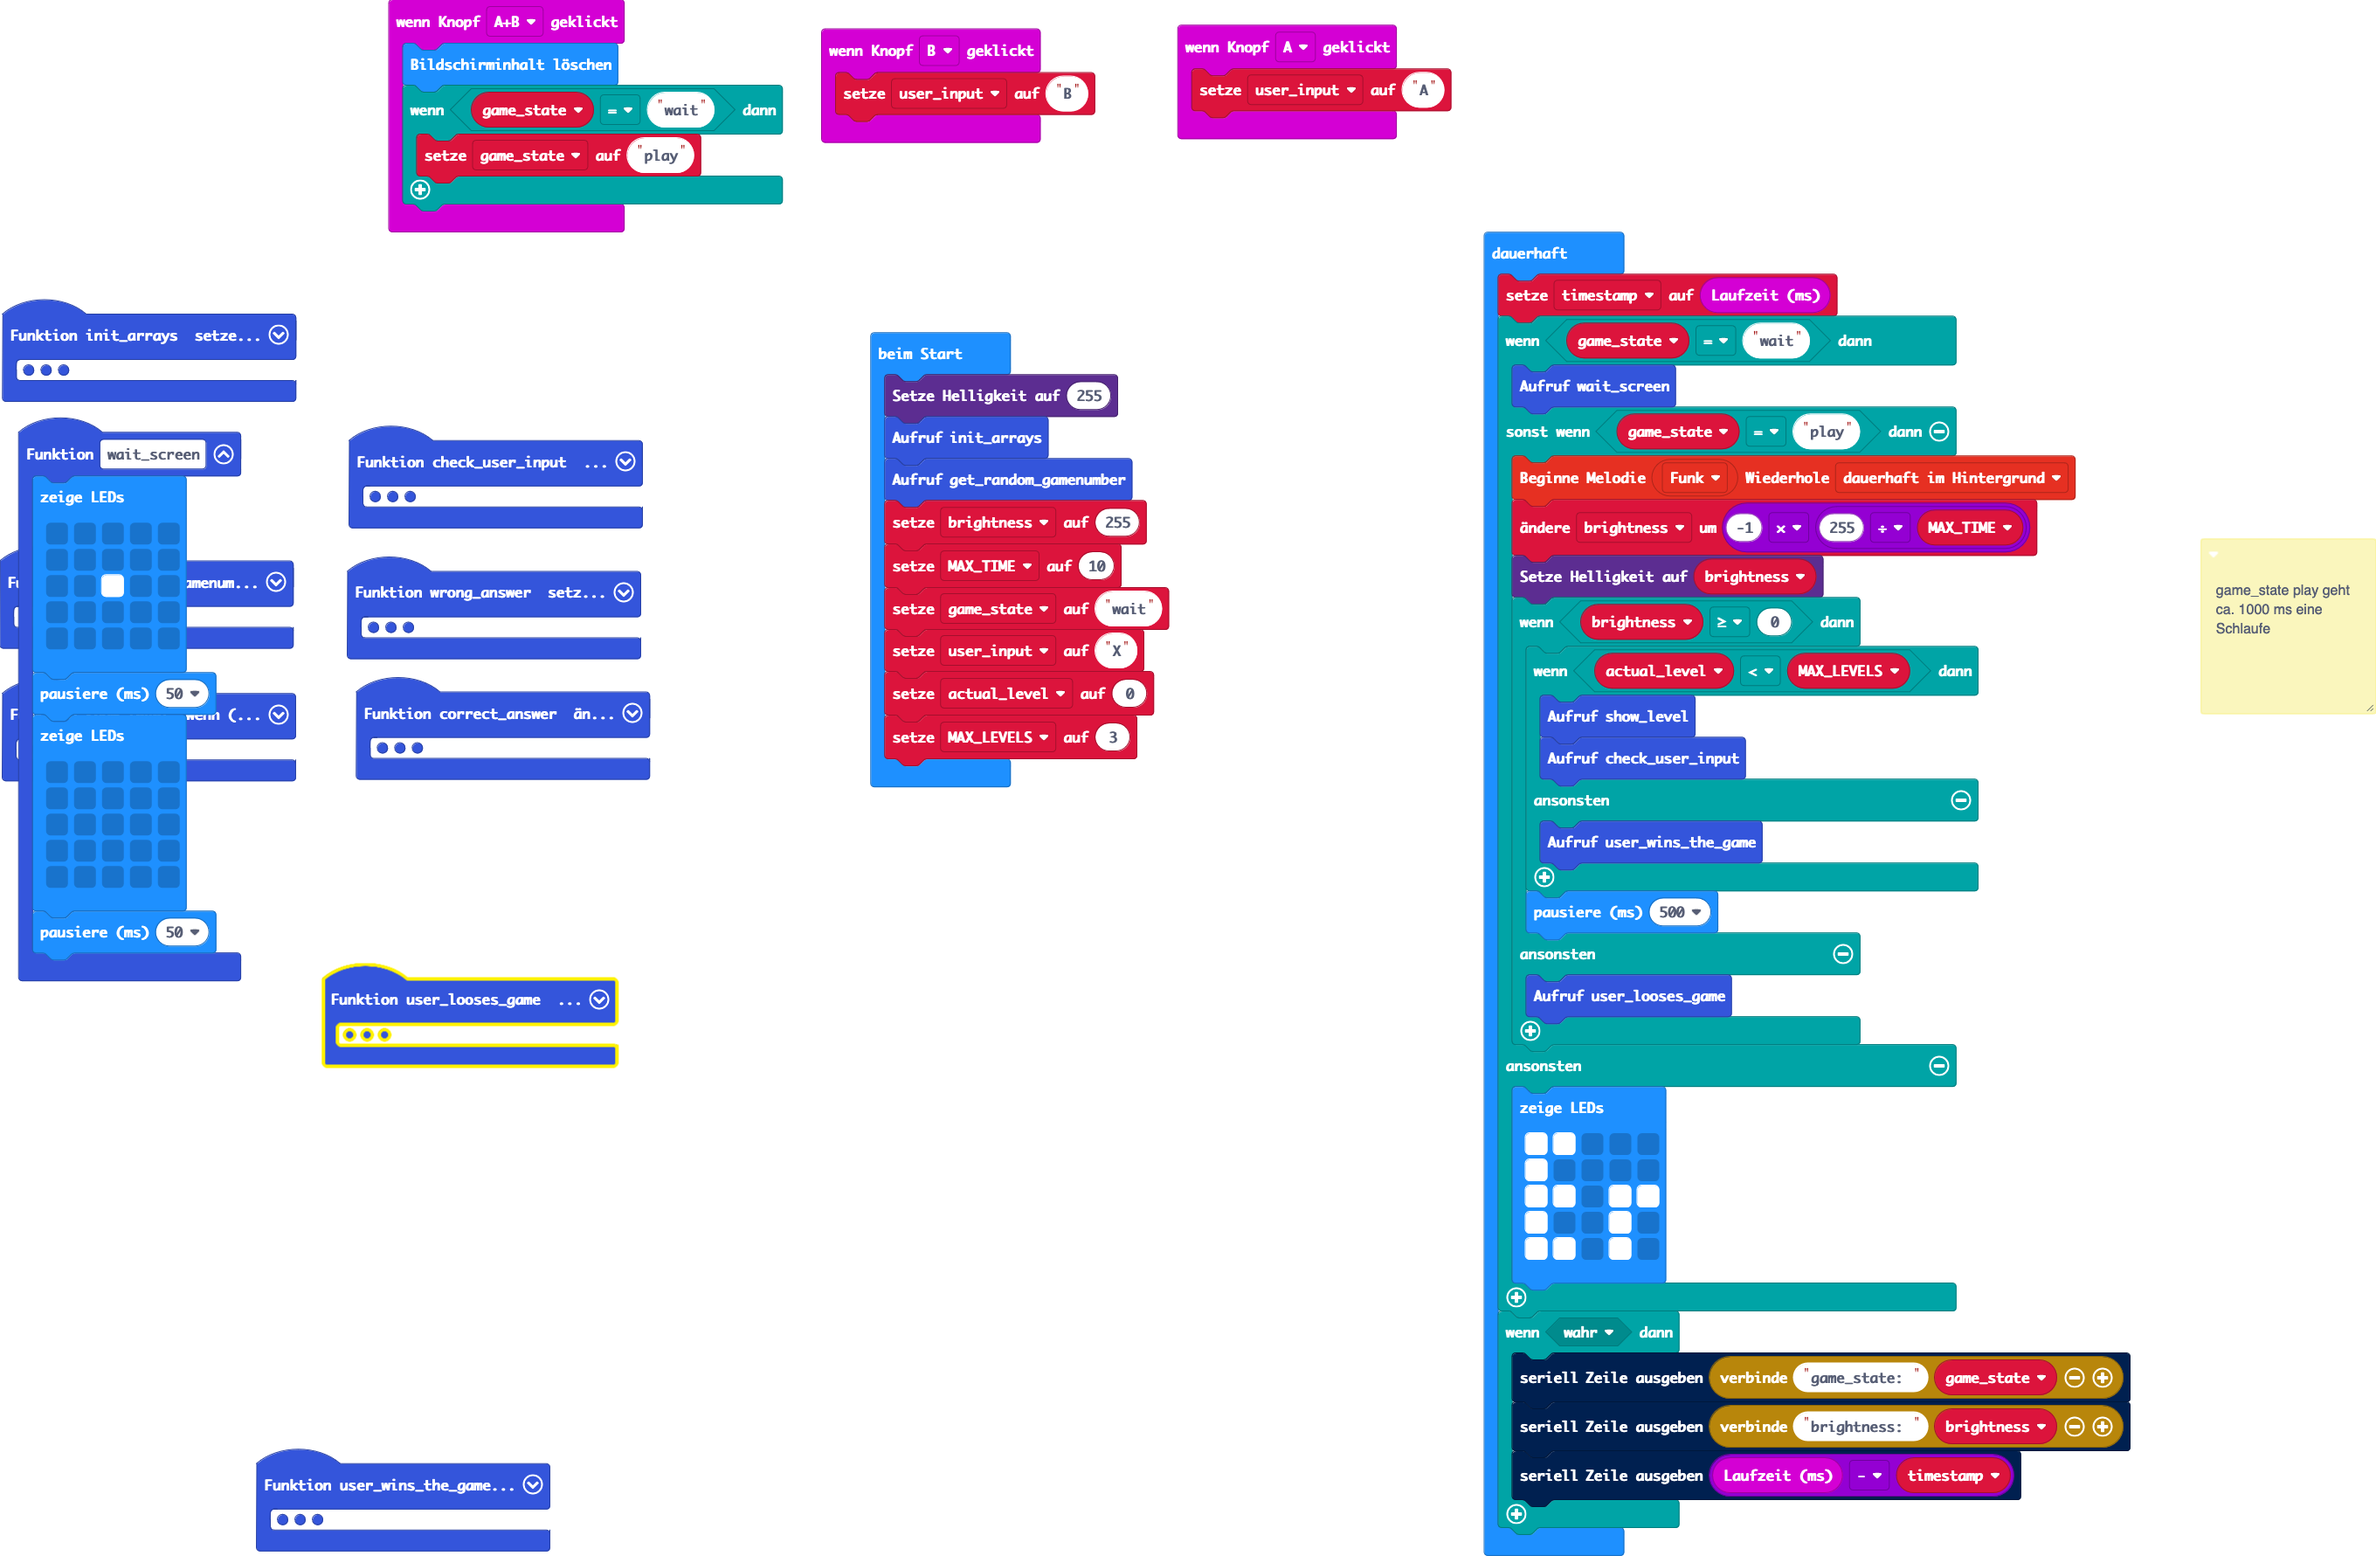
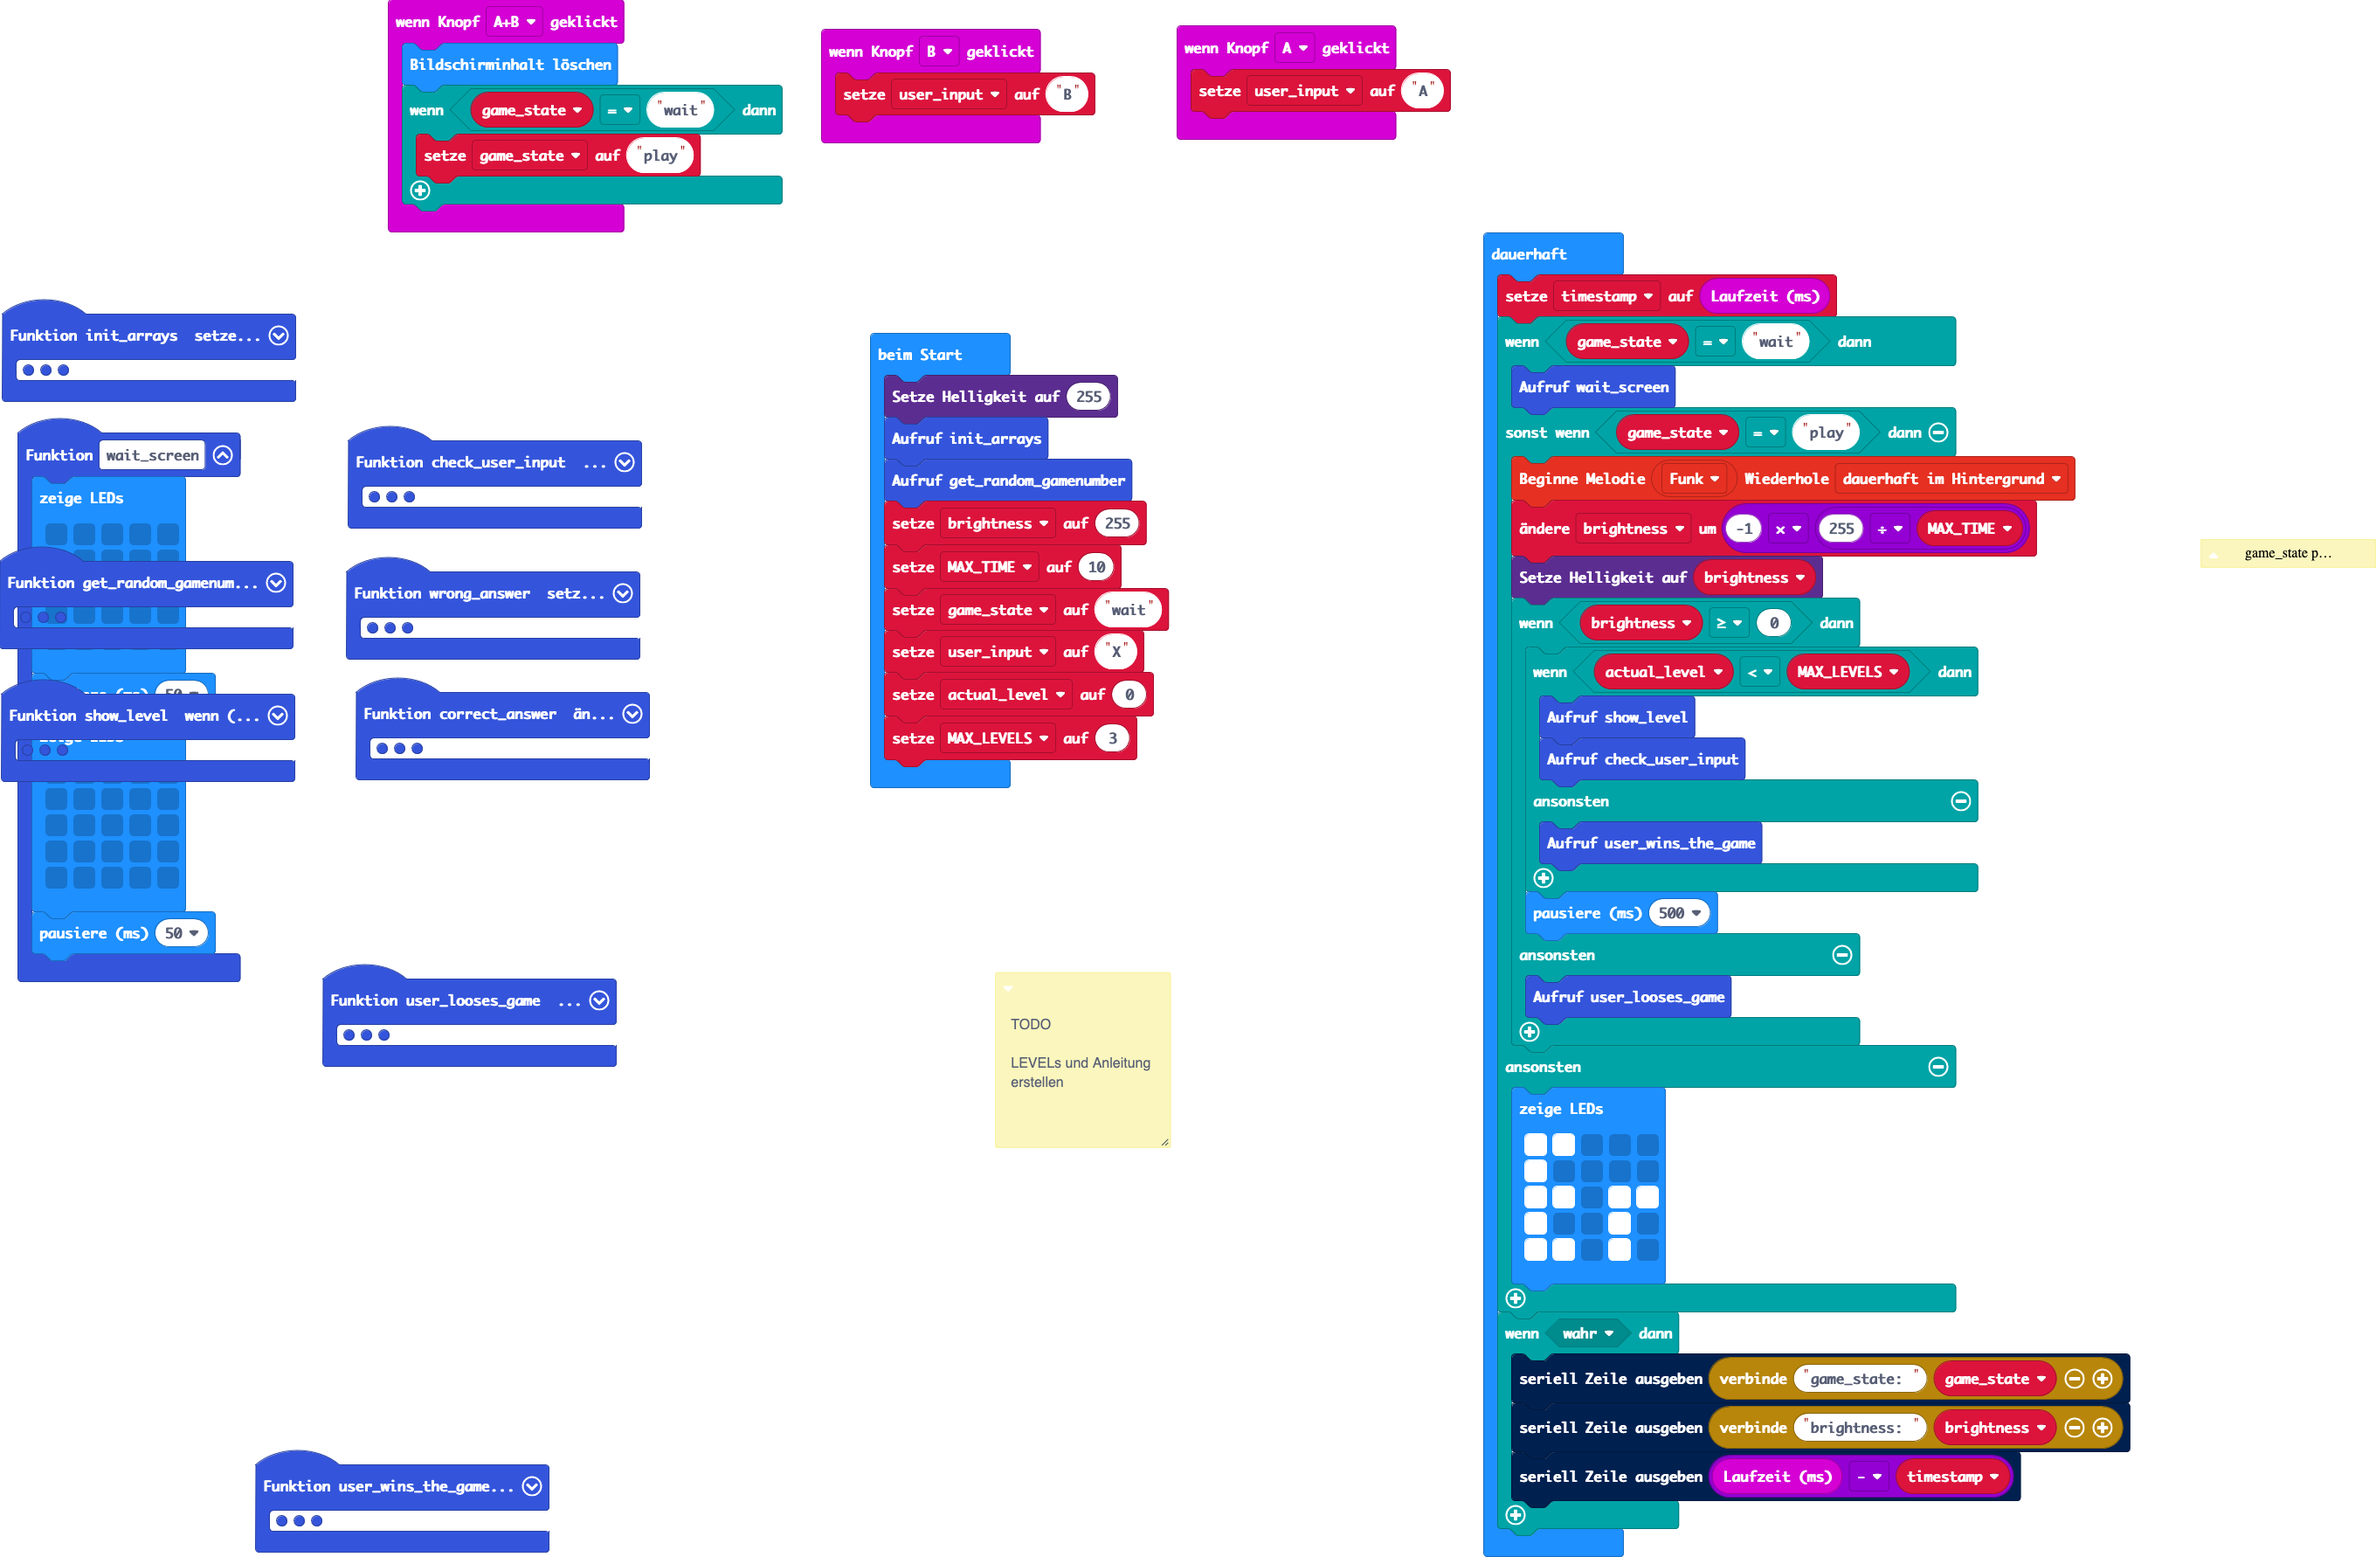
levels und anleitung müssen erstellt und eingefügt werden

diff --git a/main.ts b/main.ts
@@ -1,6 +1,11 @@
 /**
  * game_state play geht ca. 1000 ms eine Schlaufe
  */
+/**
+ * TODO
+ * 
+ * LEVELs und Anleitung erstellen
+ */
 function init_arrays () {
     SOLUTIONS = [
     "A",
